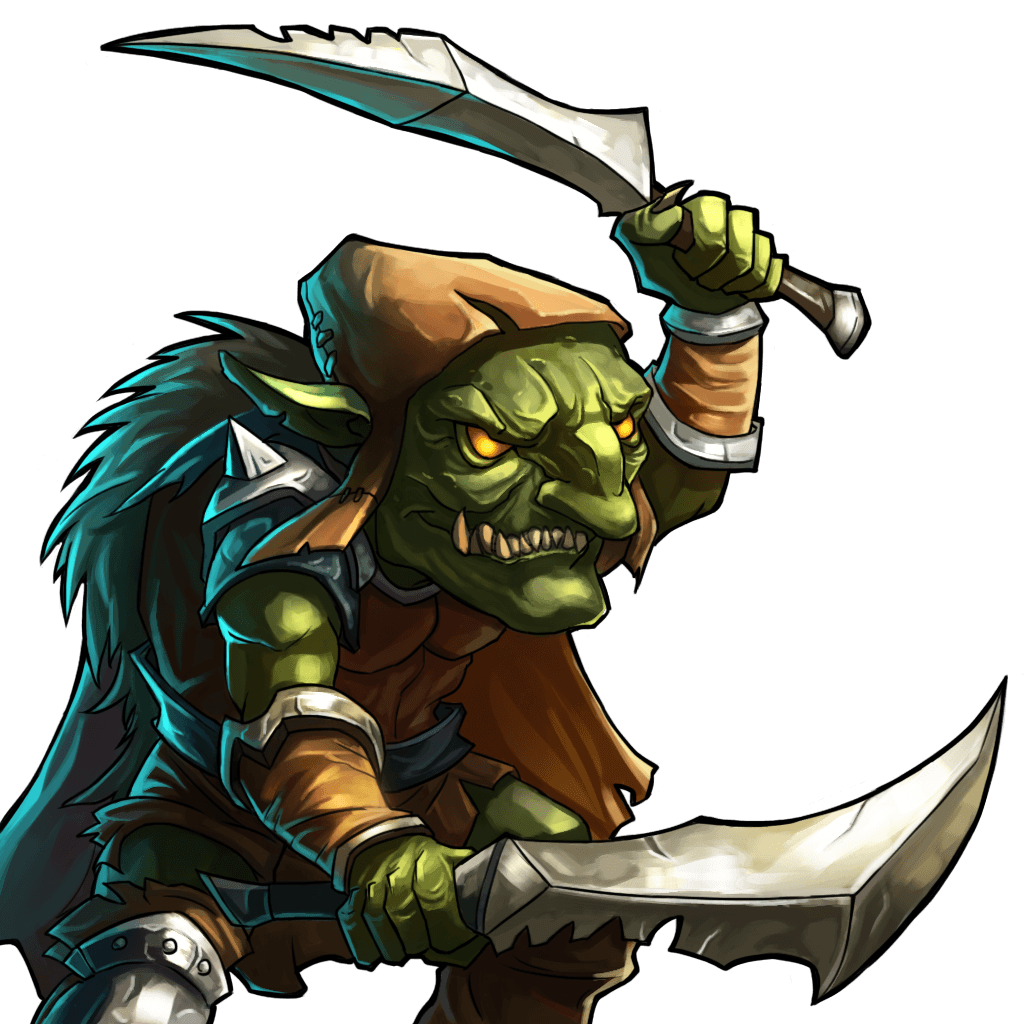
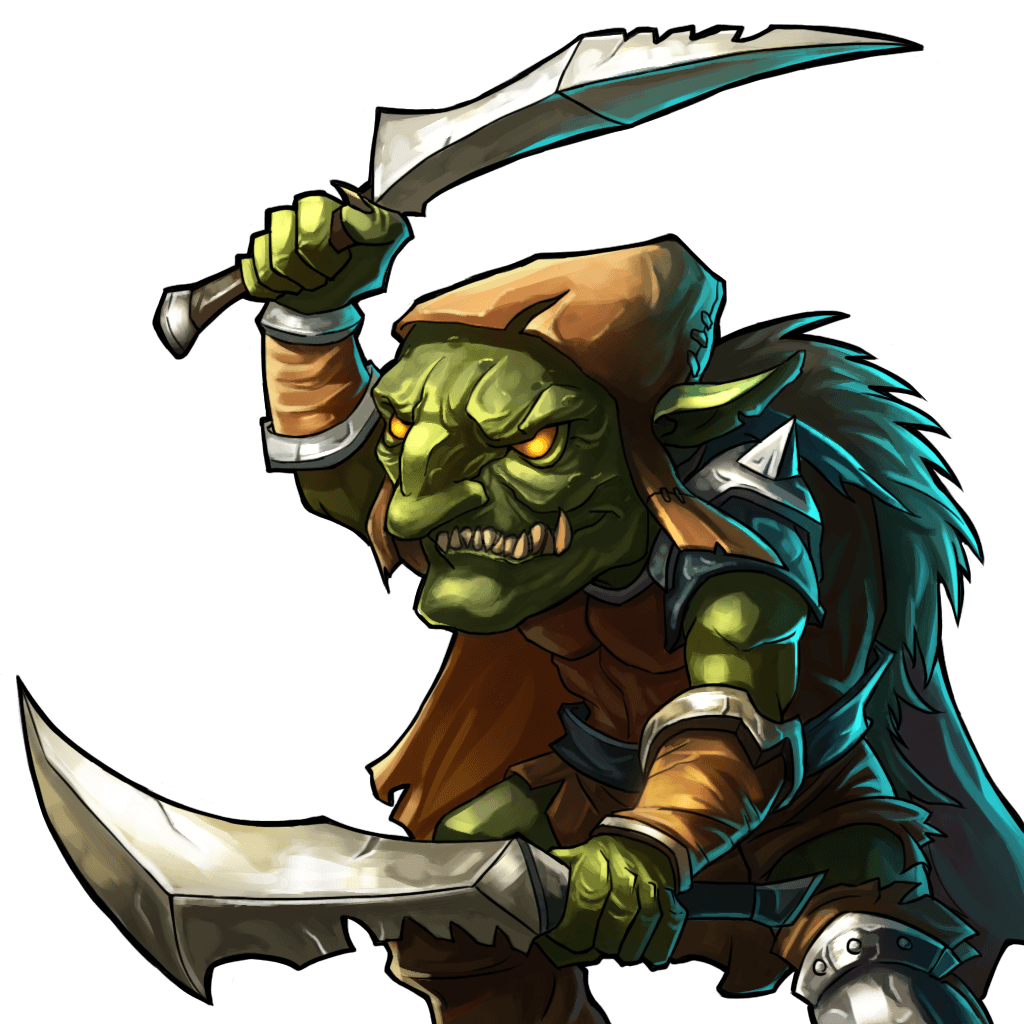
Added pictures for the characters

diff --git a/scripts/simulator.js b/scripts/simulator.js
@@ -76,6 +76,16 @@ function clearContainerByClass(className) {
   }
 }
 
+function imageLoader(imageName, imageContainer, imgaeId, imageClass){
+    let image = document.createElement('img');
+    image.setAttribute("src", "styles/assets/" + imageName + ".png")
+    image.setAttribute("id", imgaeId);
+    image.setAttribute("class", imageClass);
+    image.setAttribute("alt", "Afbeelding "+imageName+" niet gevonden")
+    document.getElementsByClassName(imageContainer)[0].appendChild(image);
+    console.log("New image has been created");
+}
+
 //Functions needed to start the game
 function backgroundStarter(newState){
     let currentBackground = document.createElement('img');
@@ -98,8 +108,8 @@ function buttonStarter(newState){
             character.introduce();
         });
         characterButton.innerHTML = character.name;
-        document.getElementsByClassName(newState)[0].appendChild(characterButton);
-        
+        document.getElementsByClassName("selectionButtons")[0].appendChild(characterButton);
+        imageLoader(character.classType, "characterPicture", character.classType, "character")
     });
     let confirmButton = document.createElement('button');
     confirmButton.setAttribute("id", "confirmation");
@@ -127,10 +137,9 @@ let characterList = [playerArcher, playerMage, playerWarrior]
 
 function characterSelector(){ //This variable will be removed and a json file with the characters will be implemented in this function instead
     backgroundStarter("characterSelection");
-    buttonStarter("characterSelection");
-}
+    buttonStarter("characterSelection");}
 
-characterSelector(characterList)
+characterSelector()
 
 //Combat related functions
 function combatSetup(){

diff --git a/index.html b/index.html
@@ -1,4 +1,4 @@
-<!doctype html>
+<!DOCTYPE html>
 <html lang="en">
   <head>
     <meta charset="UTF-8" />
@@ -8,7 +8,10 @@
   </head>
   <body>
     <div class="backgroundLocation"></div>
-    <div class="characterSelection"></div>
+    <div class="characterSelection">
+      <div class="characterPicture"></div>
+      <div class="selectionButtons"></div>
+    </div>
     <div class="combatRelated">
       <div class="combatButtons"></div>
       <div class="healthbars"></div>

diff --git a/styles/styles.css b/styles/styles.css
@@ -19,3 +19,7 @@ html {
   padding-left: 2%;
   padding-right: 2%;
 }
+
+.character{
+  max-width: 20%;
+}
